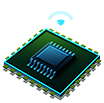
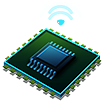
New picture added.

Changed region(s): [[0.4615, 0.0291, 0.7212, 0.1456]]

diff --git a/ControlChipMod/Item.cs b/ControlChipMod/Item.cs
@@ -63,9 +63,9 @@ namespace J2bT.ControlChipMod
             gameObject.Set(resultPrefab);
         }
 #endif
-        protected override Sprite GetItemSprite()
-        {
-            return SpriteManager.Get(TechType.MapRoomHUDChip);
-        }
+        //protected override Sprite GetItemSprite()
+        //{
+        //    return SpriteManager.Get(TechType.MapRoomHUDChip);
+        //}
     }
 }
